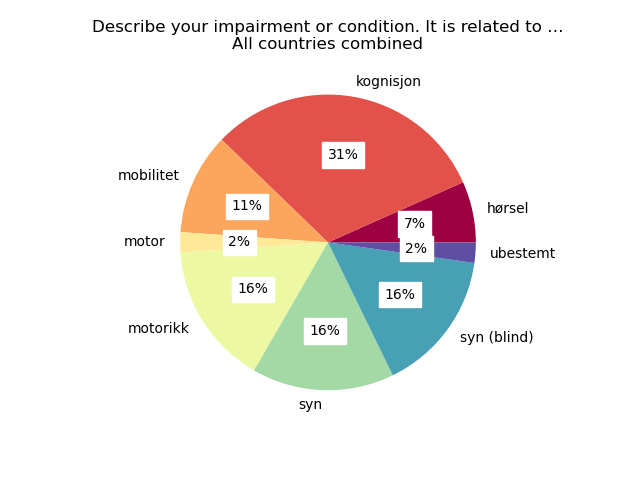
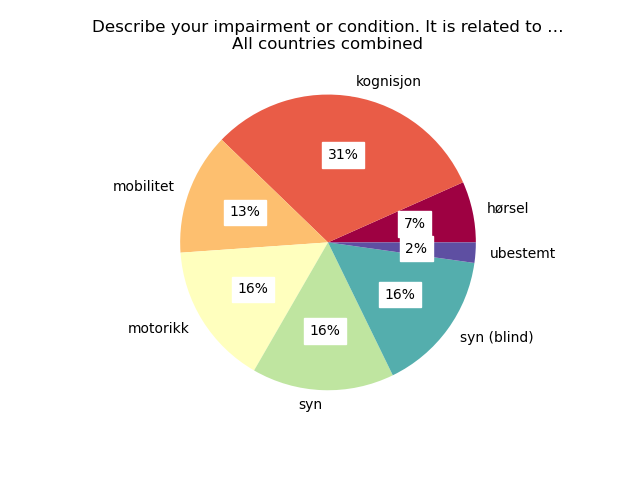
Updated funkjonsnedsettelser types.

Changed region(s): [[0.1875, 0.2812, 0.625, 0.8125], [0.1875, 0.4688, 0.25, 0.5312]]

diff --git a/RESULTS-ALL_EN.md b/RESULTS-ALL_EN.md
@@ -46,8 +46,7 @@ Nei                                    112
 funksjonsnedsettelse-type-kode                                
 hørsel                                                       3
 kognisjon                                                   14
-mobilitet                                                    5
-motor                                                        1
+mobilitet                                                    6
 motorikk                                                     7
 syn                                                          7
 syn (blind)                                                  7
